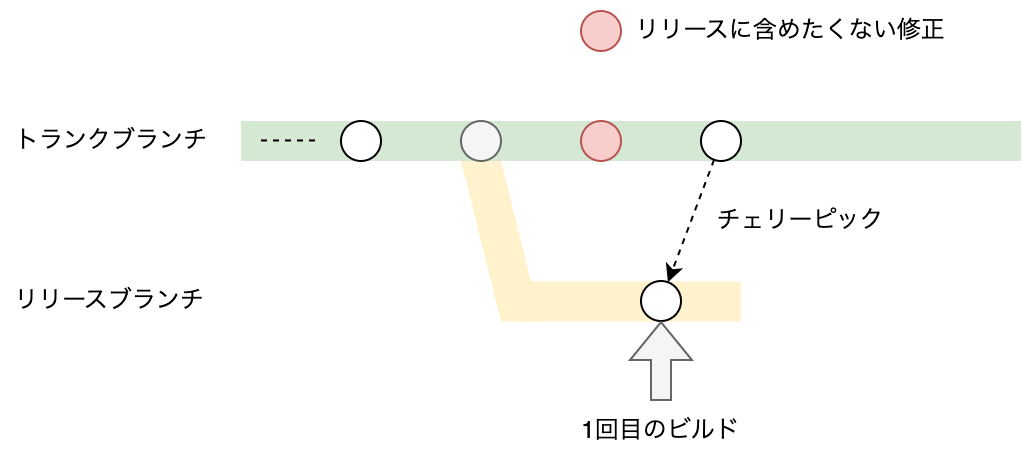
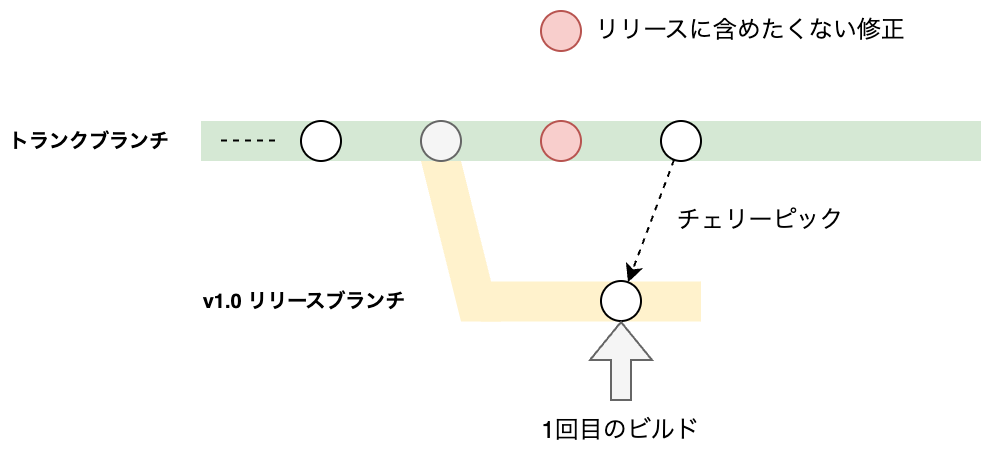
トランクベース開発の記事の下書きをブラッシュアップ (#107)

diff --git a/articles/mobile-trunk-based-release-strategy.md b/articles/mobile-trunk-based-release-strategy.md
@@ -211,6 +211,14 @@ flowchart TD
 
 定期リリースの 2 回目以降のビルドと同様に、**排他的なかき集め**フェーズと捉えることができます。
 
+## 次の定期リリースのビルドを開始する
+
+リリースが完了し、次の定期リリースのビルドを開始したい場合は、再度**トランクブランチの最新コミットからリリースブランチを作成**します。
+
+![](/images/mobile-trunk-based-release-strategy/next-release.png)
+
+前回のリリースブランチ(v1.0 リリースブランチ)は、利用しません。
+
 # 参考
 
 https://cloud.google.com/architecture/devops/devops-tech-trunk-based-development?hl=ja
